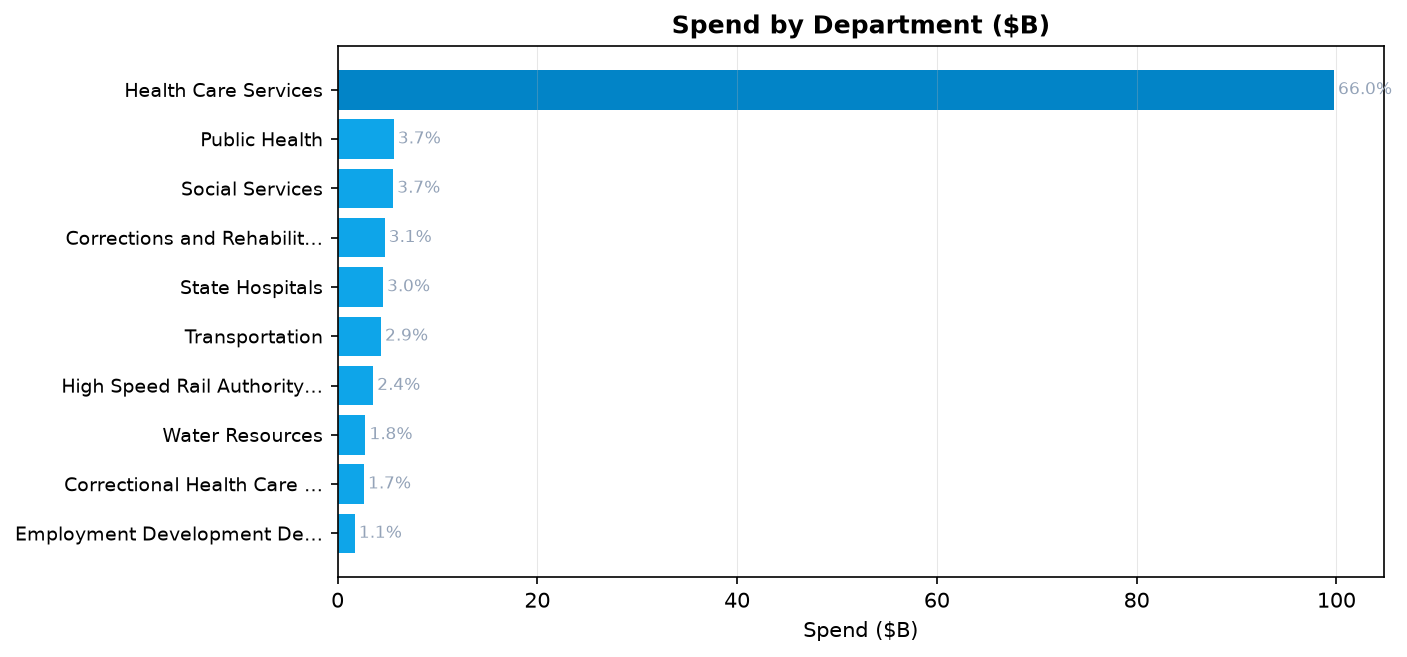
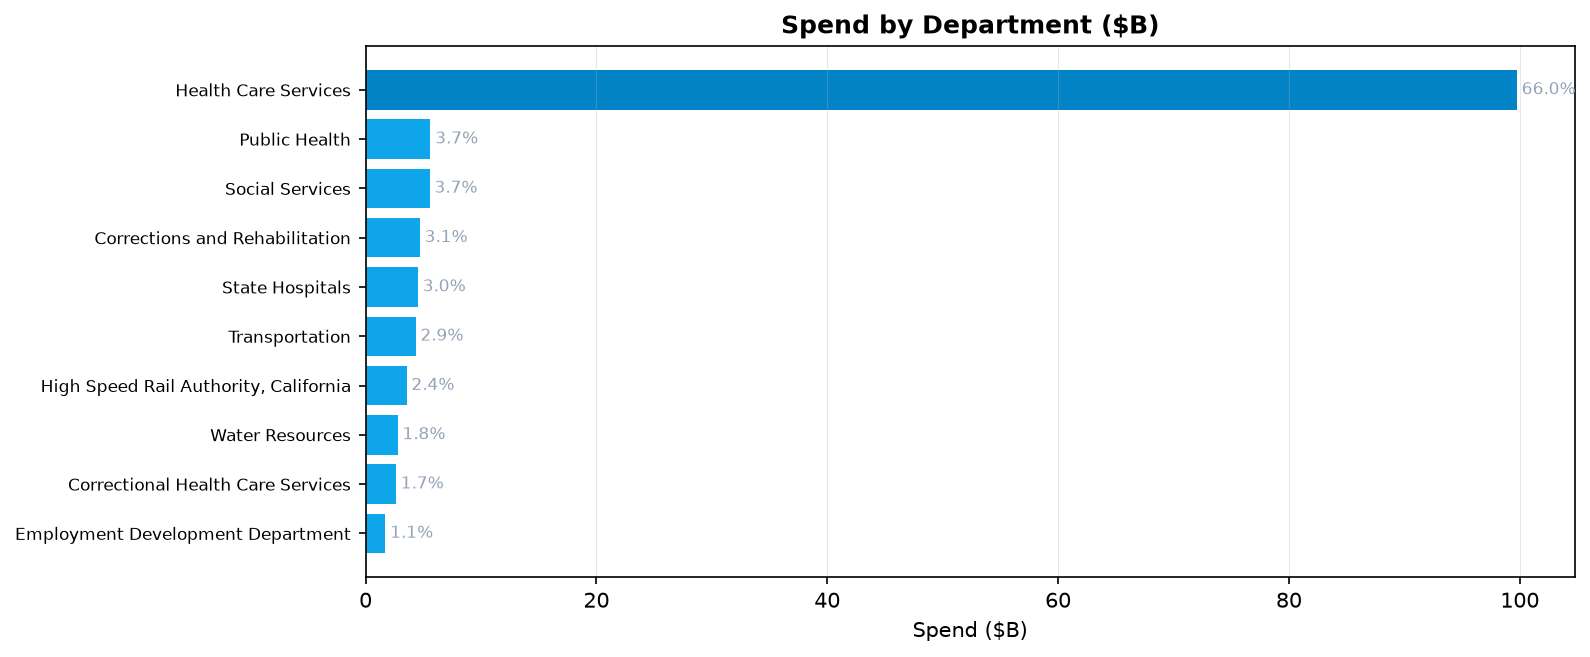
fix(charts): keep labels inside their bars and stop truncating names
- exempt labels were pinned at y=0.55, so one-off/large sat inside the green block; now anchored to the centre of each grey block
- department names were cut to 25 chars; keep full names and widen the figure
- add x headroom so the longest tier bar label no longer touches the edge
- wrap the English stack-title so it is not clipped

diff --git a/scripts/generate_charts_simple.py b/scripts/generate_charts_simple.py
@@ -131,18 +131,16 @@ save_fig(fig, "top10_suppliers.png")
 dep = df.groupby("department")["total_price"].sum().sort_values(ascending=False).head(10)
 dep_share = dep / grand
 
-fig, ax = plt.subplots(figsize=(9, 4.6))
+fig, ax = plt.subplots(figsize=(10.4, 4.6))
 labels = dep.index[::-1]
 vals = dep.values[::-1] / 1e9
 
-# 去掉部门名里的"Department of "前缀，太长的截断
+# Strip the "Department of " prefix but keep the full name: the figure width
+# and bbox_inches="tight" handle the length, so no characters are cut off.
 short_labels = []
 for n in labels:
     n2 = n.replace("Department of ", "").replace(", Department of", "")
-    if len(n2) <= 26:
-        short_labels.append(n2)
-    else:
-        short_labels.append(n2[:25] + "…")
+    short_labels.append(n2)
 
 # 占比 > 10% 的部门用深色
 bar_colors = []
@@ -154,7 +152,7 @@ for s in dep_share.values[::-1]:
 
 ax.barh(range(len(labels)), vals, color=bar_colors)
 ax.set_yticks(range(len(labels)))
-ax.set_yticklabels(short_labels, fontsize=9)
+ax.set_yticklabels(short_labels, fontsize=8)
 ax.set_title("Spend by Department ($B)", fontsize=12, fontweight="bold")
 ax.set_xlabel("Spend ($B)")
 
@@ -291,6 +289,8 @@ for i, t in enumerate(tier_order):
 ax.set_title("Supplier Segmentation — 68.8% of spend is one-off/large, 30.1% recurring core",
              fontsize=11, fontweight="bold")
 ax.set_xlabel("Spend ($B)")
+# Leave room on the right so the longest bar's label does not touch the edge
+ax.set_xlim(0, tier["spend"].max() * 1.32)
 ax.grid(axis="x", alpha=0.3, lw=0.5)
 save_fig(fig, "supplier_tier.png")
 
@@ -326,18 +326,30 @@ fig, ax = plt.subplots(figsize=(9, 4.2))
 bottom = np.zeros(len(tiers))
 colors_m = {"competitive": GREEN, "exempt": GREY, "flexible": ORANGE}
 
+# Remember where the "exempt" layer starts: each tier's grey block sits at a
+# different height, so a hard-coded y would push some labels outside the block.
+exempt_bottom = np.zeros(len(tiers))
+
 for c in classes:
     vals = sh[c].values
     ax.bar(tiers, vals, bottom=bottom, color=colors_m[c], label=c)
+    if c == "exempt":
+        # bottom is not yet accumulated here, so it is the grey block's start
+        exempt_bottom = bottom.copy()
     bottom = bottom + vals
 
-# 在中间标注"豁免"占比
+# Label the exempt share at the centre of each grey block
 for i, t in enumerate(tiers):
     pct = sh["exempt"][t] * 100
-    ax.text(i, 0.55, f"exempt {pct:.0f}%", ha="center", va="center",
+    exempt_share = sh["exempt"][t]
+    mid = exempt_bottom[i] + exempt_share / 2
+    ax.text(i, mid, f"exempt {pct:.0f}%", ha="center", va="center",
             fontsize=9, fontweight="bold")
 
-ax.set_title("Method control share by tier — exempt concentrates in recurring core, not one-off",
+# Leave headroom so the legend does not cover the tallest bars
+ax.set_ylim(0, 1.06)
+
+ax.set_title("Method control share by tier\n(exempt concentrates in the recurring core, not one-off)",
              fontsize=10.5, fontweight="bold")
 ax.legend(fontsize=8)
 ax.set_ylabel("Share of tier spend")

diff --git a/scripts/generate_charts_zh_simple.py b/scripts/generate_charts_zh_simple.py
@@ -121,17 +121,16 @@ save_fig(fig, "top10_suppliers_zh.png")
 dep = df.groupby("department")["total_price"].sum().sort_values(ascending=False).head(10)
 dep_share = dep / grand
 
-fig, ax = plt.subplots(figsize=(9, 4.6))
+fig, ax = plt.subplots(figsize=(10.4, 4.6))
 labels = dep.index[::-1]
 vals = dep.values[::-1] / 1e9
 
 short_labels = []
 for n in labels:
     n2 = n.replace("Department of ", "").replace(", Department of", "")
-    if len(n2) <= 26:
-        short_labels.append(n2)
-    else:
-        short_labels.append(n2[:25] + "…")
+    # 保留完整部门名：靠 figsize 宽度 + bbox_inches="tight" 容纳，
+    # 不做字符截断（截断后的 "Corrections and Rehabilit…" 读不出是哪个部门）。
+    short_labels.append(n2)
 
 bar_colors = []
 for s in dep_share.values[::-1]:
@@ -142,7 +141,7 @@ for s in dep_share.values[::-1]:
 
 ax.barh(range(len(labels)), vals, color=bar_colors)
 ax.set_yticks(range(len(labels)))
-ax.set_yticklabels(short_labels, fontsize=9)
+ax.set_yticklabels(short_labels, fontsize=8)
 ax.set_title("各部门支出（$B）", fontsize=12, fontweight="bold")
 ax.set_xlabel("支出（$B）")
 
@@ -276,6 +275,8 @@ for i, t in enumerate(tier_order):
 ax.set_title("供应商分层 —— 68.8% 支出来自一次性/大额，30.1% 为长期核心",
              fontsize=11, fontweight="bold")
 ax.set_xlabel("支出（$B）")
+# 右侧留出空白，避免最长那根柱子的标签（$104.1B · 4,583 家 · 68.8%）贴到图片边缘
+ax.set_xlim(0, tier["spend"].max() * 1.32)
 ax.grid(axis="x", alpha=0.3, lw=0.5)
 save_fig(fig, "supplier_tier_zh.png")
 
@@ -310,15 +311,28 @@ bottom = np.zeros(len(tiers))
 colors_m = {"competitive": GREEN, "exempt": GREY, "flexible": ORANGE}
 legend_names = {"competitive": "竞争", "exempt": "豁免", "flexible": "灵活"}
 
+# 记录"豁免"这一层的底边位置：每个分层的灰块起止高度都不一样，
+# 只有拿到起点才能把文字放到灰块正中（而不是写死一个固定高度）。
+exempt_bottom = np.zeros(len(tiers))
+
 for c in classes:
     vals = sh[c].values
     ax.bar(tiers, vals, bottom=bottom, color=colors_m[c], label=legend_names[c])
+    if c == "exempt":
+        # 这一层刚画完、bottom 还没被累加，此时它就是灰块的起点
+        exempt_bottom = bottom.copy()
     bottom = bottom + vals
 
 for i, t in enumerate(tiers):
     pct = sh["exempt"][t] * 100
-    ax.text(i, 0.55, f"豁免 {pct:.0f}%", ha="center", va="center",
+    # 灰块中点 = 起点 + 该层高度的一半
+    exempt_share = sh["exempt"][t]
+    mid = exempt_bottom[i] + exempt_share / 2
+    ax.text(i, mid, f"豁免 {pct:.0f}%", ha="center", va="center",
             fontsize=9, fontweight="bold")
+
+# 顶部留一点空间，避免图例压住最高的柱顶
+ax.set_ylim(0, 1.06)
 
 ax.set_title("各分层采购方式占比 —— 豁免集中于长期核心，而非一次性/大额",
              fontsize=10.5, fontweight="bold")
